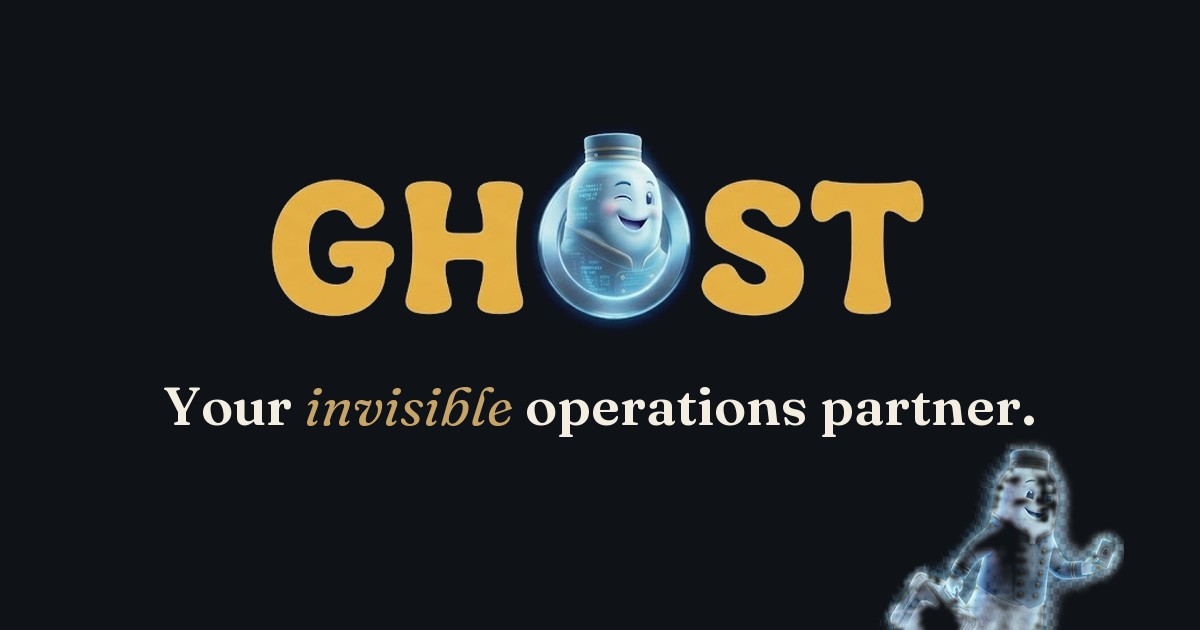
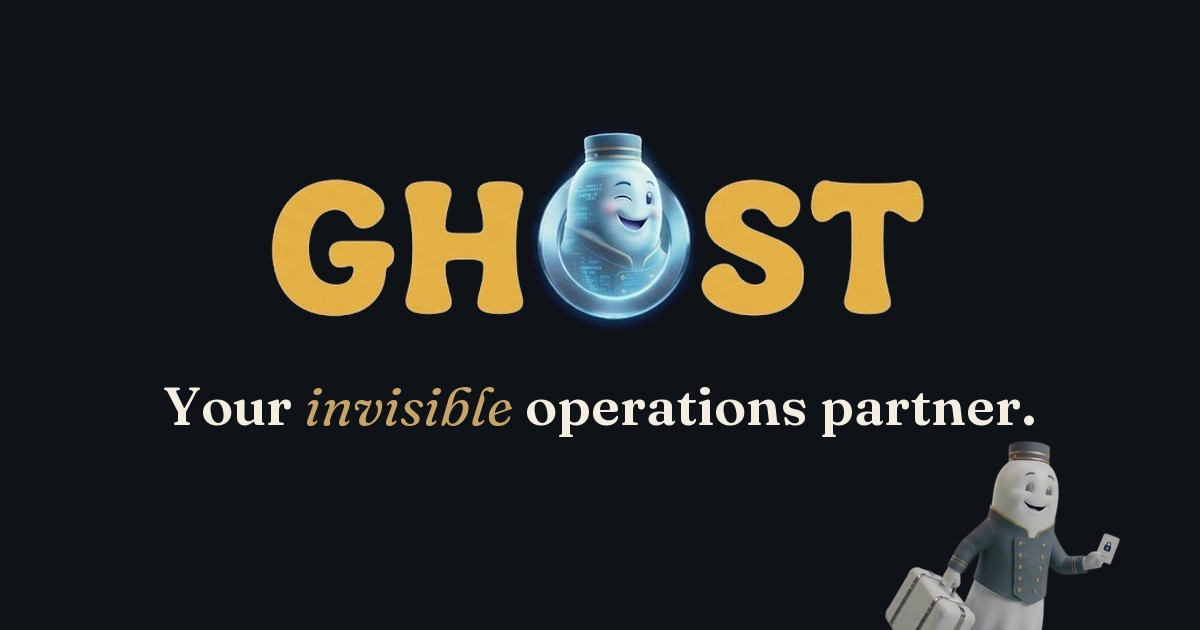
Re-cut the mascot from the green screen and make the home page mark legible
Troy supplied the mascot twice more, once on a transparency checkerboard and once on a green
screen. The green screen is the one worth having: the backing is a single known colour, so
alpha and the un-tinted foreground both fall straight out of the compositing equation instead
of being inferred. The corners key to exactly zero, and compositing the result back over the
checkerboard render of the same pose reproduces it to a mean absolute difference of 1.1/255
across the frame. No fitted checker period, no smear to separate out by colour, no residue.

Despill is the same subtraction: green spill on a soft edge is just the backing showing
through a partly covered pixel, so un-compositing removes it. What survives is bounce light on
the subject, which is held down to the warmer channels. Nothing on this mascot is green, so
that is safe.

The home page mark
It was unreadable, and the reason was framing rather than extraction. .panel .logo renders at
56px, and 44px under the mobile breakpoint, and the mark was the entire floating figure scaled
into that box: at 44px a full-length character is a pale smudge with no silhouette. Every
sibling solves this the same way. MOOSE is a head-and-shoulders portrait that fills its square,
Creativ8 is a single glyph. So GHOST becomes a portrait too, cropped to the cap, the face and
the brass-buttoned jacket, which are the parts that still read once the image is 44 pixels
[…]

Changed region(s): [[0.74, 0.6937, 0.9558, 1.0]]

diff --git a/ghost/index.html b/ghost/index.html
@@ -222,7 +222,7 @@ h3,.sysc b,.nr b,.chain .cn b{font-family:"Source Sans 3",system-ui,sans-serif}
 <section class="hero" data-screen-label="Hero">
 <div class="bg" aria-hidden="true"><picture><source media="(max-width:860px)" srcset="/assets/ghost-web/v2/hero-promise-mobile.jpg" width="1086" height="1448"><img class="on" src="/assets/ghost-web/v2/hero-promise.jpg" alt="" width="1672" height="941" fetchpriority="high" decoding="async"></picture></div>
 <div class="veil" aria-hidden="true"></div>
-<div class="pring" aria-hidden="true"><img class="ghost" src="/assets/logos/ghost-mascot.png" alt="" width="384" height="424" fetchpriority="high" decoding="async"><svg viewBox="0 0 400 400"><circle class="r" cx="200" cy="200" r="150"/><circle class="dot" cx="322" cy="112" r="9"/><circle class="orb" r="5"><animateMotion dur="9s" repeatCount="indefinite" path="M322 112A150 150 0 1 1 350 200A150 150 0 1 1 50 200A150 150 0 0 1 322 112"/></circle><text x="200" y="376" text-anchor="middle">requested · committed · accepted · executed · evidenced · acknowledged</text></svg></div>
+<div class="pring" aria-hidden="true"><img class="ghost" src="/assets/logos/ghost-mascot.png" alt="" width="725" height="747" fetchpriority="high" decoding="async"><svg viewBox="0 0 400 400"><circle class="r" cx="200" cy="200" r="150"/><circle class="dot" cx="322" cy="112" r="9"/><circle class="orb" r="5"><animateMotion dur="9s" repeatCount="indefinite" path="M322 112A150 150 0 1 1 350 200A150 150 0 1 1 50 200A150 150 0 0 1 322 112"/></circle><text x="200" y="376" text-anchor="middle">requested · committed · accepted · executed · evidenced · acknowledged</text></svg></div>
 <div class="wrap"><div class="copy">
 <div class="eyebrow reveal in"><span class="tag accent">GHOST · Guest &amp; Hospitality OS Toolkit</span><span class="tag">Investor demonstration</span><span class="live"><i></i>Pilot property next</span></div>
 <h1 class="words"><span>Your</span> <i><span>invisible</span></i> <span>operations</span> <span>partner.</span></h1>
@@ -352,7 +352,7 @@ h3,.sysc b,.nr b,.chain .cn b{font-family:"Source Sans 3",system-ui,sans-serif}
 <p class="wink reveal d3">You won’t see GHOST on the tour. That’s rather the point.</p>
 </div></section>
 </main>
-<footer><img class="hushpeek" src="/assets/logos/ghost-mascot.png" alt="" width="384" height="424" loading="lazy" decoding="async"><div class="wrap"><div class="top">
+<footer><img class="hushpeek" src="/assets/logos/ghost-mascot.png" alt="" width="725" height="747" loading="lazy" decoding="async"><div class="wrap"><div class="top">
 <a class="brand" href="/" aria-label="Auxerion"><img class="ic-mark" src="/assets/logos/auxerion-mark-2026.png" alt="" width="24" height="24" decoding="async"><span style="font-size:13px">AUXERION</span></a>
 <nav class="family" aria-label="Auxerion family"><a href="/"><span class="dot" style="background:var(--ax)"></span>Auxerion</a><a href="/creativ8"><span class="dot" style="background:var(--c8)"></span>Creativ8</a><a href="/moose"><span class="dot" style="background:var(--mo)"></span>MOOSE</a><a href="/ghost" aria-current="true"><span class="dot" style="background:var(--ha)"></span>GHOST</a><a href="/workos"><span class="dot" style="background:var(--wo)"></span>WorkOS</a></nav>
 <div><a href="mailto:troy@auxerion.com">troy@auxerion.com</a></div></div>

diff --git a/auxerion/home.css b/auxerion/home.css
@@ -133,9 +133,9 @@ body{overflow-x:hidden}
 .panel.c8 .pic{background:radial-gradient(circle at 30% 30%,rgba(245,165,36,.25),transparent 60%),#171512}.panel.c8 .marq{color:#F5A524;border-color:rgba(245,165,36,.3)}
 .panel.mo{background:#F7F9FB;color:#1B3A6B}.panel.mo .tag{border-color:#1FA7A0;color:#1B3A6B}.panel.mo .go{background:#1FA7A0;color:#fff}.panel.mo .pic::after{content:"";position:absolute;inset:0;background:linear-gradient(90deg,#F7F9FB,transparent 40%)}
 .panel.mo .pic{background:#E6F4F3}.panel.mo .marq{color:#1FA7A0;border-color:rgba(31,167,160,.3)}
-.panel.ha{background:#F6F1E8;color:#1E2321}.panel.ha .tag{border-color:#0F5C52;color:#0F5C52}.panel.ha .go{background:#0F5C52;color:#FFFDF8}.panel.ha .pic::after{content:"";position:absolute;inset:0;background:linear-gradient(90deg,#F6F1E8,transparent 40%)}
-.panel.ha .pname{font-family:"Fraunces","Space Grotesk",Georgia,serif;font-weight:500;letter-spacing:-.01em}
-.panel.ha .pic{background:#DDD3C3}.panel.ha .pic img{object-position:78% 50%}.panel.ha .marq{color:#0F5C52;border-color:rgba(15,92,82,.3)}
+.panel.ha{background:#0F1216;color:#F3EDE2}.panel.ha .tag{border-color:#C6A469;color:#C6A469}.panel.ha .go{background:#C6A469;color:#0F1216}.panel.ha .pic::after{content:"";position:absolute;inset:0;background:linear-gradient(90deg,#0F1216,transparent 40%)}
+.panel.ha .pname{font-family:"Fraunces","Space Grotesk",Georgia,serif;font-weight:600;letter-spacing:-.01em}
+.panel.ha .pic{background:#1A1F26}.panel.ha .pic img{object-position:78% 50%}.panel.ha .marq{color:#C6A469;border-color:rgba(198,164,105,.3)}
 @media(max-width:860px){.panel{grid-template-columns:1fr;min-height:0}.panel .pic{aspect-ratio:16/10;order:-1}.panel .pic::after{display:none}.panel .txt{padding:32px 24px 72px}.panel .logo{height:44px;margin-bottom:8px}.panel .cap{bottom:auto;top:12px}}
 /* LOOP */
 .loopsec{padding-block:160px 140px;position:relative;overflow:hidden;border-top:0;margin-top:140px}
